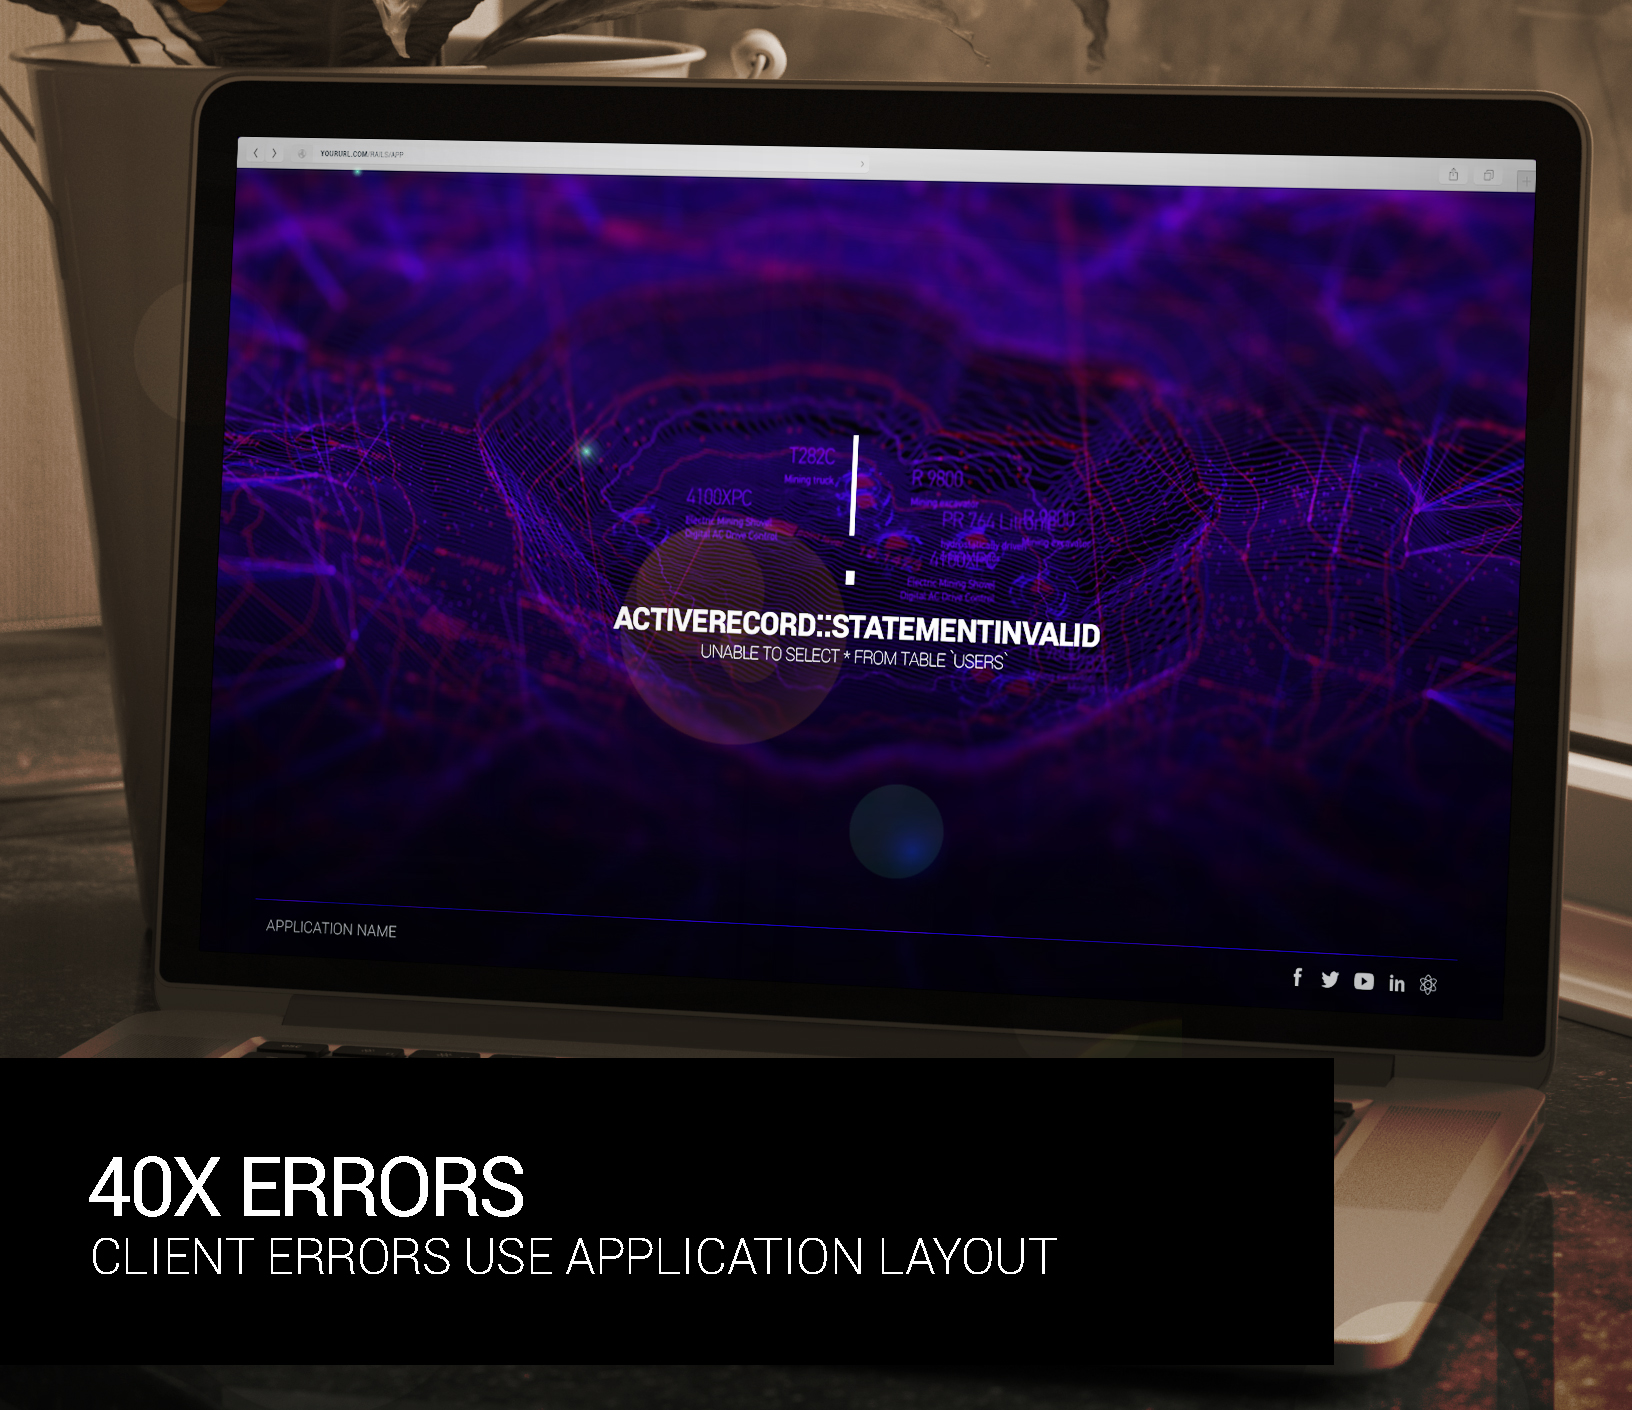
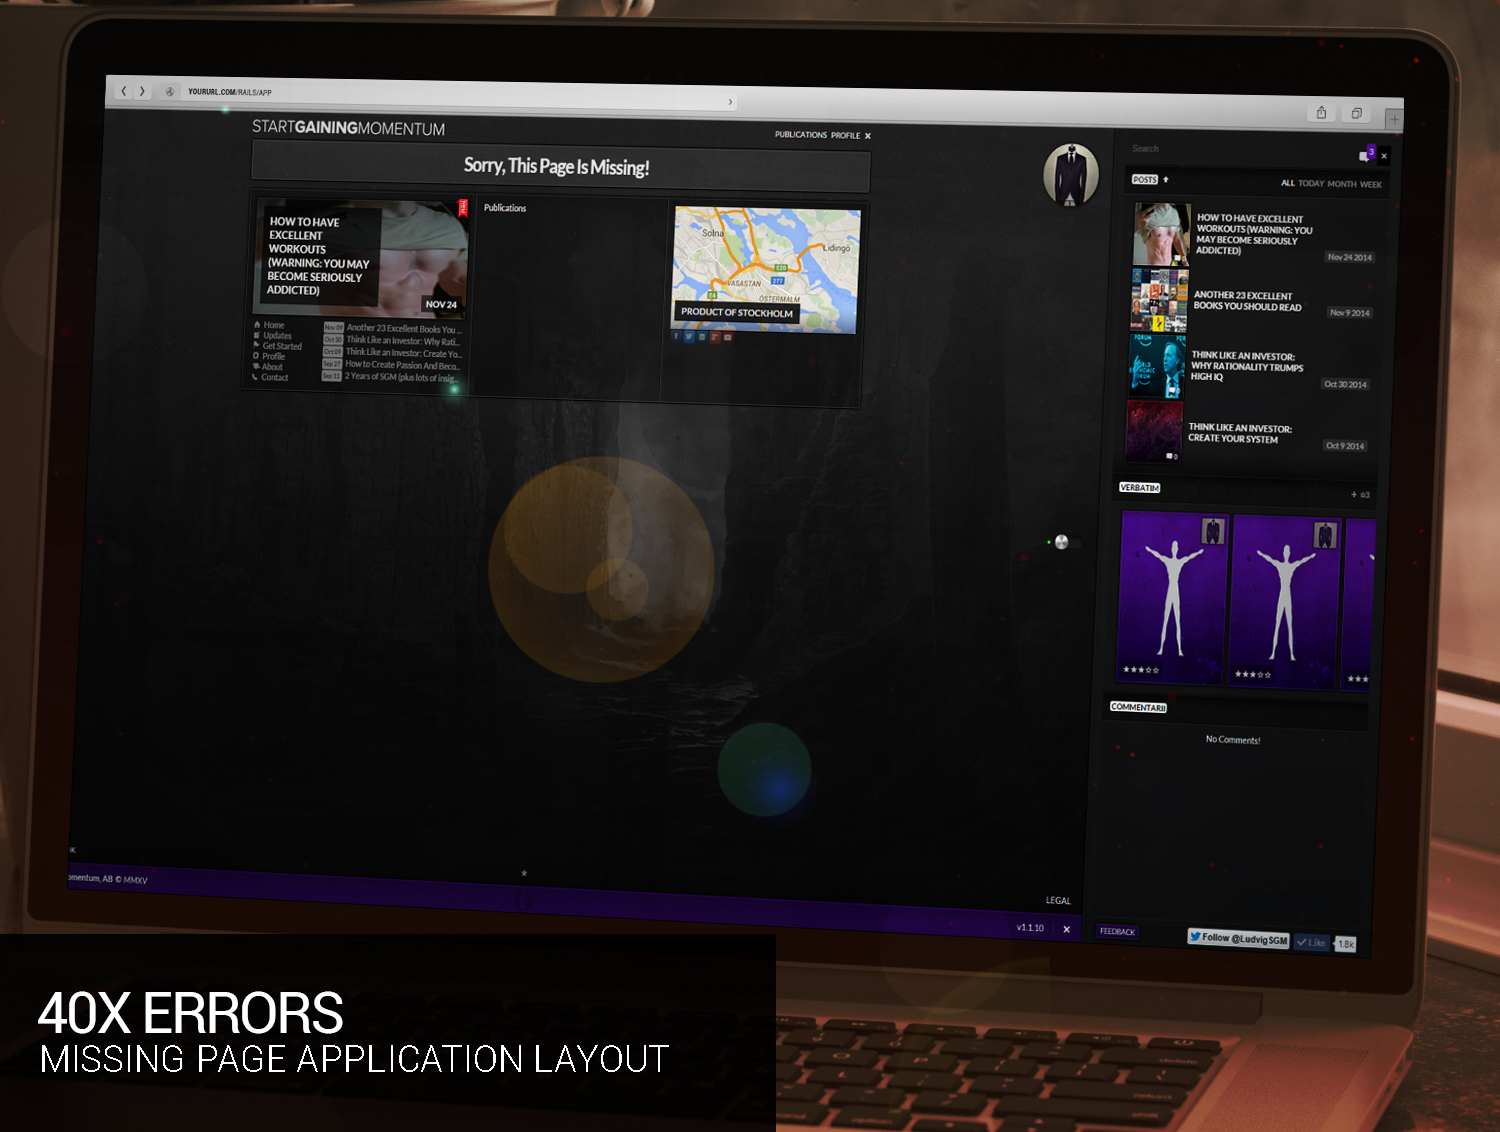
Added Fixes

diff --git a/app/controllers/exception_handler/exception_controller.rb b/app/controllers/exception_handler/exception_controller.rb
@@ -1,5 +1,5 @@
 module ExceptionHandler
-  class ExceptionController < ActionController::Base
+  class ExceptionController < ApplicationController
 
     #Response
     respond_to :html, :xml, :json
@@ -51,8 +51,8 @@ module ExceptionHandler
 
     #Layout
     def layout_status
-      return ExceptionHandler.config.exception_layout || 'error' if @status.to_s != "404"
-      ExceptionHandler.config.error_layout || 'application'
+      @status.to_s != "404" ? ExceptionHandler.config.exception_layout || 'error' : ExceptionHandler.config.error_layout || nil #-> inherits ApplicationController layout
+      end
     end
 
     #App

diff --git a/README.md b/README.md
@@ -47,31 +47,7 @@ Whilst it's common practice to use `config.exceptions_app = self.routes` to send
 
 ----------
 
-## <img src="/readme/icons/upgrade.png" width="28" /> Updates
-
-![Latest Version Released 20th September 2015](/readme/versions/0.4.0.jpg "Version 0.4.0")
-
- - Updated assets (new Error layout)
- - Variable DB name (uses inputted sym/string if available)
- - Email notifications
- - Enhanced options for `User` object (user data captured on exception invoke)
-
-![0.3.5 Released Apr 2015](/readme/versions/0.3.5.jpg "Version 0.3.5")
-
- - Small bug fixes
- - Update to `config` object
- - Changes to default migration & middleware template
-
-![0.3.0 Released Oct 2014](/readme/versions/0.3.0.jpg "Version 0.3.0")
-
- - Original release
- - Middleware hook (for `config.exceptions_app`)
- - Customizable config file
- - Ability to customize views & layout
-
-----------
-
-## [<img src="https://rubygems.org/favicon.ico" height="30" valign="middle"  title="Download from RubyGems" target="_new" />](https://rubygems.org/gems/exception_handler/versions/0.4.0) 1 - Install
+## Installation
 
      gem install 'exception_handler'
  
@@ -81,9 +57,11 @@ or
 
     $ bundle
 
-----------
+--
 
-##2 - Config (Optional)
+### Options
+
+##### Config
 
 If you wish to change any of the default settings (listed below), run the following command:
 
